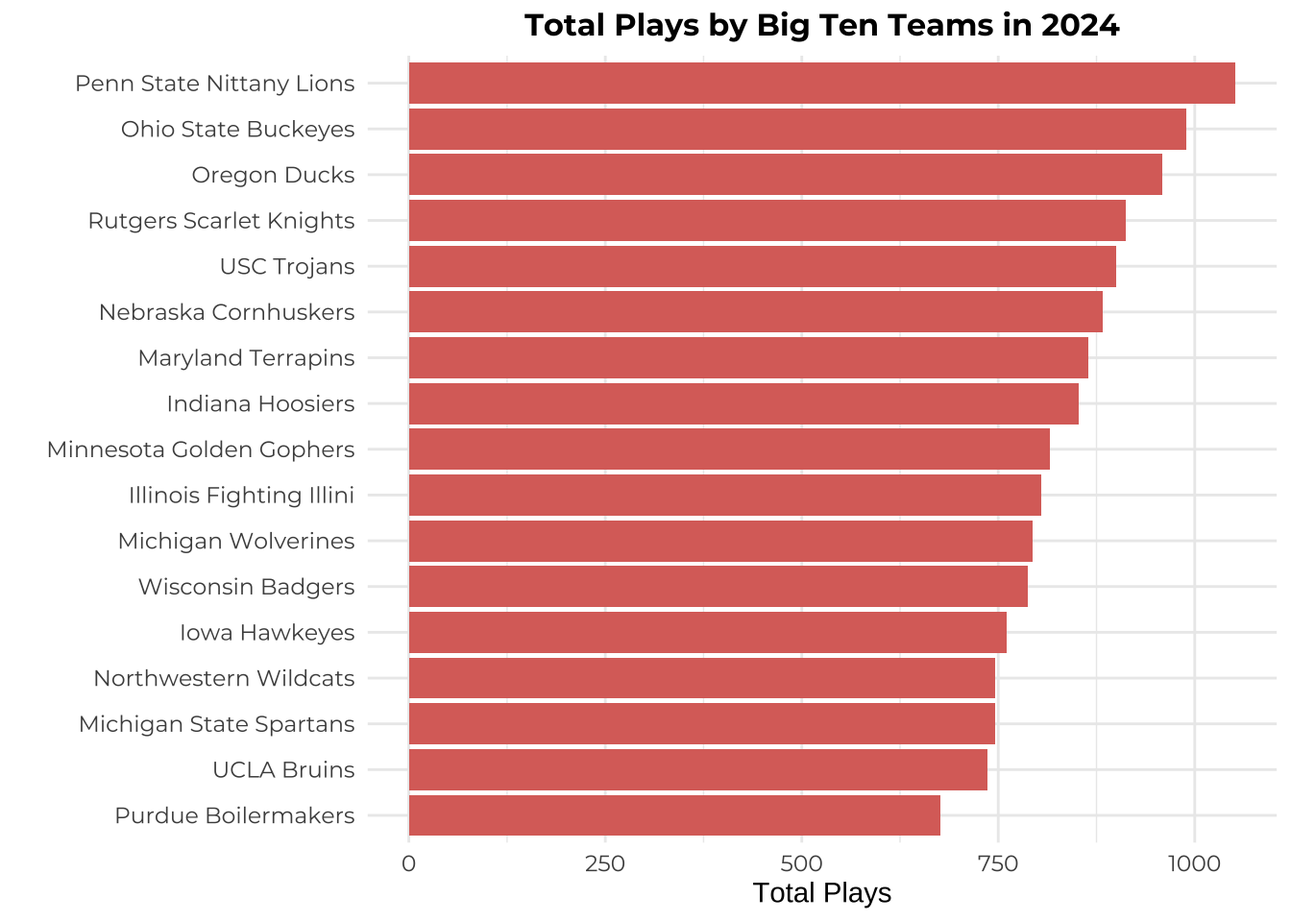
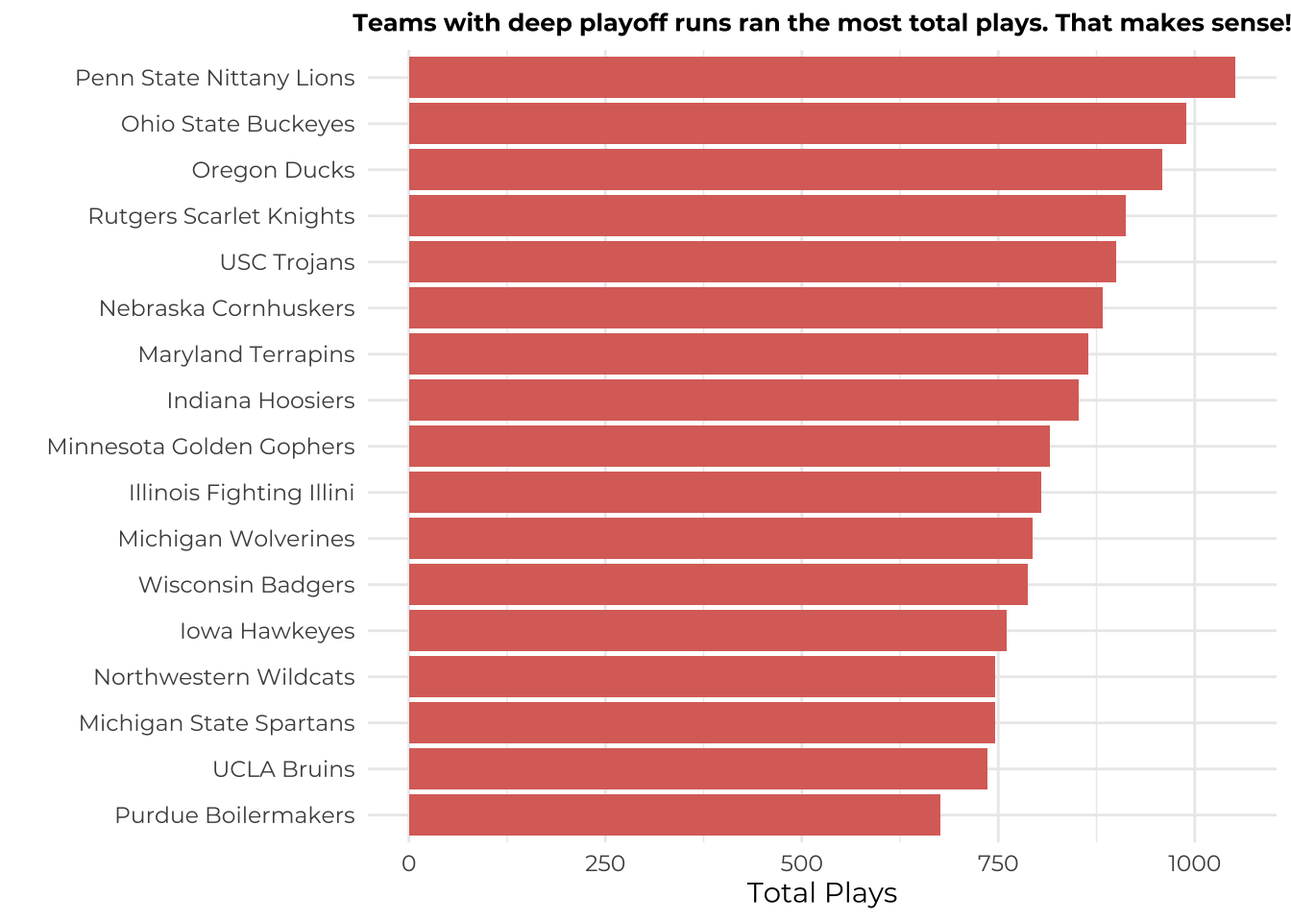
updates

diff --git a/docs/posts/b1g_plays/index.html b/docs/posts/b1g_plays/index.html
@@ -185,6 +185,10 @@ pre > code.sourceCode > span > a:first-child::before { text-decoration: underlin
 
 
 
+<p>Few other sports have quite the differences in style of play of college football. Different regions of the country sprouted different blue prints of offense. The sport is often defined by wacky, high-speed spread offenses or teams that seem not be aware the forward pass exists (talking about you Iowa!).</p>
+<p>Here, we’re going to look at one very specific (or well, not so specific these days) region of college football: The Big Ten.</p>
+<p>These days, with the league stretching from coast to coast, there are many different stylistic and strategic choices made in building an offense. No longer is the Big Ten just a grind-it-out, physical, running league. Well, okay not Iowa again, but point stands.</p>
+<p>Because there are so many styles and speeds of offense, does it matter how many plays you run in a game? Does running a lot of plays mean you are a good team? Let’s use the data to find out.</p>
 <div class="cell">
 <details class="code-fold">
 <summary>Code</summary>
@@ -351,6 +355,8 @@ date  (1): Date
 17 Purdue Boilermakers                1021         62.7</code></pre>
 </div>
 </div>
+<p>We’re going to look at this in a few time frames. First, we’ll look at the 2024 season alone, then 2025 (so far) alone and then lastly, a combined chart.</p>
+<p>We’ll have to look at this two ways each year. First total plays for the season and then try to standardize it for average per game since not every team played the same number of games.</p>
 <div class="cell">
 <details class="code-fold">
 <summary>Code</summary>
@@ -358,12 +364,13 @@ date  (1): Date
 <span id="cb16-2"><a href="#cb16-2" aria-hidden="true" tabindex="-1"></a>  <span class="fu">ggplot</span>(<span class="fu">aes</span>(<span class="at">x =</span> <span class="fu">reorder</span>(TeamFull, totalplays), <span class="at">y =</span> totalplays, <span class="at">fill =</span> TeamFull)) <span class="sc">+</span></span>
 <span id="cb16-3"><a href="#cb16-3" aria-hidden="true" tabindex="-1"></a>  <span class="fu">coord_flip</span>() <span class="sc">+</span></span>
 <span id="cb16-4"><a href="#cb16-4" aria-hidden="true" tabindex="-1"></a>  <span class="fu">geom_col</span>(<span class="at">fill =</span> <span class="st">"#db7069"</span>) <span class="sc">+</span></span>
-<span id="cb16-5"><a href="#cb16-5" aria-hidden="true" tabindex="-1"></a>  <span class="fu">labs</span>(<span class="at">title =</span> <span class="st">"Total Plays by Big Ten Teams in 2024"</span>,</span>
+<span id="cb16-5"><a href="#cb16-5" aria-hidden="true" tabindex="-1"></a>  <span class="fu">labs</span>(<span class="at">title =</span> <span class="st">"Teams with deep playoff runs ran the most total plays. That makes sense!"</span>,</span>
 <span id="cb16-6"><a href="#cb16-6" aria-hidden="true" tabindex="-1"></a>       <span class="at">x =</span> <span class="st">""</span>,</span>
 <span id="cb16-7"><a href="#cb16-7" aria-hidden="true" tabindex="-1"></a>       <span class="at">y =</span> <span class="st">"Total Plays"</span>) <span class="sc">+</span></span>
 <span id="cb16-8"><a href="#cb16-8" aria-hidden="true" tabindex="-1"></a>  <span class="fu">theme_minimal</span>() <span class="sc">+</span></span>
-<span id="cb16-9"><a href="#cb16-9" aria-hidden="true" tabindex="-1"></a>  <span class="fu">theme</span>(<span class="at">plot.title =</span> <span class="fu">element_text</span>(<span class="at">size =</span> <span class="dv">12</span>, <span class="at">face =</span> <span class="st">"bold"</span>, <span class="at">hjust =</span> <span class="fl">0.5</span>, <span class="at">family =</span> <span class="st">"montserrat"</span>),</span>
-<span id="cb16-10"><a href="#cb16-10" aria-hidden="true" tabindex="-1"></a>        <span class="at">axis.text =</span> <span class="fu">element_text</span>(<span class="at">family =</span> <span class="st">"montserrat"</span>))</span></code><button title="Copy to Clipboard" class="code-copy-button"><i class="bi"></i></button></pre></div>
+<span id="cb16-9"><a href="#cb16-9" aria-hidden="true" tabindex="-1"></a>  <span class="fu">theme</span>(<span class="at">plot.title =</span> <span class="fu">element_text</span>(<span class="at">size =</span> <span class="fl">9.5</span>, <span class="at">face =</span> <span class="st">"bold"</span>, <span class="at">hjust =</span> <span class="fl">0.5</span>, <span class="at">family =</span> <span class="st">"montserrat"</span>),</span>
+<span id="cb16-10"><a href="#cb16-10" aria-hidden="true" tabindex="-1"></a>        <span class="at">axis.text =</span> <span class="fu">element_text</span>(<span class="at">family =</span> <span class="st">"montserrat"</span>),</span>
+<span id="cb16-11"><a href="#cb16-11" aria-hidden="true" tabindex="-1"></a>        <span class="at">axis.title =</span> <span class="fu">element_text</span>(<span class="at">family =</span> <span class="st">"montserrat"</span>))</span></code><button title="Copy to Clipboard" class="code-copy-button"><i class="bi"></i></button></pre></div>
 </details>
 <div class="cell-output-display">
 <div>
@@ -372,7 +379,173 @@ date  (1): Date
 </figure>
 </div>
 </div>
+<details class="code-fold">
+<summary>Code</summary>
+<div class="sourceCode cell-code" id="cb17"><pre class="sourceCode r code-with-copy"><code class="sourceCode r"><span id="cb17-1"><a href="#cb17-1" aria-hidden="true" tabindex="-1"></a>b1g2024plays <span class="sc">|&gt;</span> </span>
+<span id="cb17-2"><a href="#cb17-2" aria-hidden="true" tabindex="-1"></a>  <span class="fu">ggplot</span>(<span class="fu">aes</span>(<span class="at">x =</span> <span class="fu">reorder</span>(TeamFull, avgplays), <span class="at">y =</span> avgplays, <span class="at">fill =</span> TeamFull)) <span class="sc">+</span></span>
+<span id="cb17-3"><a href="#cb17-3" aria-hidden="true" tabindex="-1"></a>  <span class="fu">coord_flip</span>() <span class="sc">+</span></span>
+<span id="cb17-4"><a href="#cb17-4" aria-hidden="true" tabindex="-1"></a>  <span class="fu">geom_col</span>(<span class="at">fill =</span> <span class="st">"#db7069"</span>) <span class="sc">+</span></span>
+<span id="cb17-5"><a href="#cb17-5" aria-hidden="true" tabindex="-1"></a>  <span class="fu">labs</span>(<span class="at">title =</span> <span class="st">"But running a lot of plays doesn't equal team success"</span>,</span>
+<span id="cb17-6"><a href="#cb17-6" aria-hidden="true" tabindex="-1"></a>       <span class="at">x =</span> <span class="st">""</span>,</span>
+<span id="cb17-7"><a href="#cb17-7" aria-hidden="true" tabindex="-1"></a>       <span class="at">y =</span> <span class="st">"Plays per game"</span>) <span class="sc">+</span></span>
+<span id="cb17-8"><a href="#cb17-8" aria-hidden="true" tabindex="-1"></a>  <span class="fu">theme_minimal</span>() <span class="sc">+</span></span>
+<span id="cb17-9"><a href="#cb17-9" aria-hidden="true" tabindex="-1"></a>  <span class="fu">theme</span>(<span class="at">plot.title =</span> <span class="fu">element_text</span>(<span class="at">size =</span> <span class="dv">12</span>, <span class="at">face =</span> <span class="st">"bold"</span>, <span class="at">hjust =</span> <span class="fl">0.5</span>, <span class="at">family =</span> <span class="st">"montserrat"</span>),</span>
+<span id="cb17-10"><a href="#cb17-10" aria-hidden="true" tabindex="-1"></a>        <span class="at">axis.text =</span> <span class="fu">element_text</span>(<span class="at">family =</span> <span class="st">"montserrat"</span>), </span>
+<span id="cb17-11"><a href="#cb17-11" aria-hidden="true" tabindex="-1"></a>        <span class="at">axis.title =</span> <span class="fu">element_text</span>(<span class="at">family =</span> <span class="st">"montserrat"</span>))</span></code><button title="Copy to Clipboard" class="code-copy-button"><i class="bi"></i></button></pre></div>
+</details>
+<div class="cell-output-display">
+<div>
+<figure class="figure">
+<p><img src="index_files/figure-html/unnamed-chunk-3-2.png" class="img-fluid figure-img" width="672"></p>
+</figure>
 </div>
+</div>
+</div>
+<p>It shouldn’t come as much of a surprise to see Ohio State, Penn State and Oregon at the top of the total plays list. Those three played the most games. Ohio State won the national championship. Penn State made the national semifinals. Oregon played in the Big Ten title game and the Rose Bowl. So that doesn’t mean much.</p>
+<p>What’s more interesting? Rutgers is the next team up after those three. Rutgers did play in a bowl game last year, but went just 7-6. The averages will tell us a better story.</p>
+<p>When we look at what teams averaged the most plays, it’s a lot of mediocre teams at the top of the chart. Rutgers, Maryland and USC had the top three most plays per game. Those three teams combined to go 18-20 in 2024. Maryland won just won Big Ten game — against USC, ironically. So running a lot of plays didn’t necessarily mean a team was winning a lot of games based on 2024 data. The teams that were more successful (we’ll use the Big Ten teams that made the Playoff for the sake of this: Ohio State, Penn State, Oregon, Indiana) are scattered throughout this list. Ohio State had the fifth fewest plays of all Big Ten teams, and won the national championship.</p>
+<p>What we see here is that it’s not about the quantity of plays, but about executing each team’s respective style of play.</p>
+<p>Does that change in 2025?</p>
+<div class="cell">
+<details class="code-fold">
+<summary>Code</summary>
+<div class="sourceCode cell-code" id="cb18"><pre class="sourceCode r code-with-copy"><code class="sourceCode r"><span id="cb18-1"><a href="#cb18-1" aria-hidden="true" tabindex="-1"></a>b1g2025plays <span class="sc">|&gt;</span> </span>
+<span id="cb18-2"><a href="#cb18-2" aria-hidden="true" tabindex="-1"></a>  <span class="fu">ggplot</span>(<span class="fu">aes</span>(<span class="at">x =</span> <span class="fu">reorder</span>(TeamFull, totalplays), <span class="at">y =</span> totalplays, <span class="at">fill =</span> TeamFull)) <span class="sc">+</span></span>
+<span id="cb18-3"><a href="#cb18-3" aria-hidden="true" tabindex="-1"></a>  <span class="fu">coord_flip</span>() <span class="sc">+</span></span>
+<span id="cb18-4"><a href="#cb18-4" aria-hidden="true" tabindex="-1"></a>  <span class="fu">geom_col</span>(<span class="at">fill =</span> <span class="st">"#db7069"</span>) <span class="sc">+</span></span>
+<span id="cb18-5"><a href="#cb18-5" aria-hidden="true" tabindex="-1"></a>  <span class="fu">labs</span>(<span class="at">title =</span> <span class="st">"Total Plays by Big Ten Teams in 2025"</span>,</span>
+<span id="cb18-6"><a href="#cb18-6" aria-hidden="true" tabindex="-1"></a>       <span class="at">x =</span> <span class="st">""</span>,</span>
+<span id="cb18-7"><a href="#cb18-7" aria-hidden="true" tabindex="-1"></a>       <span class="at">y =</span> <span class="st">"Total Plays"</span>) <span class="sc">+</span></span>
+<span id="cb18-8"><a href="#cb18-8" aria-hidden="true" tabindex="-1"></a>  <span class="fu">theme_minimal</span>() <span class="sc">+</span></span>
+<span id="cb18-9"><a href="#cb18-9" aria-hidden="true" tabindex="-1"></a>  <span class="fu">theme</span>(<span class="at">plot.title =</span> <span class="fu">element_text</span>(<span class="at">size =</span> <span class="dv">12</span>, <span class="at">face =</span> <span class="st">"bold"</span>, <span class="at">hjust =</span> <span class="fl">0.5</span>, <span class="at">family =</span> <span class="st">"montserrat"</span>),</span>
+<span id="cb18-10"><a href="#cb18-10" aria-hidden="true" tabindex="-1"></a>        <span class="at">axis.text =</span> <span class="fu">element_text</span>(<span class="at">family =</span> <span class="st">"montserrat"</span>), </span>
+<span id="cb18-11"><a href="#cb18-11" aria-hidden="true" tabindex="-1"></a>        <span class="at">axis.title =</span> <span class="fu">element_text</span>(<span class="at">family =</span> <span class="st">"montserrat"</span>))</span></code><button title="Copy to Clipboard" class="code-copy-button"><i class="bi"></i></button></pre></div>
+</details>
+<div class="cell-output-display">
+<div>
+<figure class="figure">
+<p><img src="index_files/figure-html/unnamed-chunk-4-1.png" class="img-fluid figure-img" width="672"></p>
+</figure>
+</div>
+</div>
+<details class="code-fold">
+<summary>Code</summary>
+<div class="sourceCode cell-code" id="cb19"><pre class="sourceCode r code-with-copy"><code class="sourceCode r"><span id="cb19-1"><a href="#cb19-1" aria-hidden="true" tabindex="-1"></a>b1g2025plays <span class="sc">|&gt;</span> </span>
+<span id="cb19-2"><a href="#cb19-2" aria-hidden="true" tabindex="-1"></a>  <span class="fu">ggplot</span>(<span class="fu">aes</span>(<span class="at">x =</span> <span class="fu">reorder</span>(TeamFull, avgplays), <span class="at">y =</span> avgplays, <span class="at">fill =</span> TeamFull)) <span class="sc">+</span></span>
+<span id="cb19-3"><a href="#cb19-3" aria-hidden="true" tabindex="-1"></a>  <span class="fu">coord_flip</span>() <span class="sc">+</span></span>
+<span id="cb19-4"><a href="#cb19-4" aria-hidden="true" tabindex="-1"></a>  <span class="fu">geom_col</span>(<span class="at">fill =</span> <span class="st">"#db7069"</span>) <span class="sc">+</span></span>
+<span id="cb19-5"><a href="#cb19-5" aria-hidden="true" tabindex="-1"></a>  <span class="fu">labs</span>(<span class="at">title =</span> <span class="st">"Ohio State runs the fewest plays per game, and is the nation's best team"</span>,</span>
+<span id="cb19-6"><a href="#cb19-6" aria-hidden="true" tabindex="-1"></a>       <span class="at">x =</span> <span class="st">""</span>,</span>
+<span id="cb19-7"><a href="#cb19-7" aria-hidden="true" tabindex="-1"></a>       <span class="at">y =</span> <span class="st">"Plays per game"</span>) <span class="sc">+</span></span>
+<span id="cb19-8"><a href="#cb19-8" aria-hidden="true" tabindex="-1"></a>  <span class="fu">theme_minimal</span>() <span class="sc">+</span></span>
+<span id="cb19-9"><a href="#cb19-9" aria-hidden="true" tabindex="-1"></a>  <span class="fu">theme</span>(<span class="at">plot.title =</span> <span class="fu">element_text</span>(<span class="at">size =</span> <span class="dv">12</span>, <span class="at">face =</span> <span class="st">"bold"</span>, <span class="at">hjust =</span> <span class="fl">0.5</span>, <span class="at">family =</span> <span class="st">"montserrat"</span>),</span>
+<span id="cb19-10"><a href="#cb19-10" aria-hidden="true" tabindex="-1"></a>        <span class="at">axis.text =</span> <span class="fu">element_text</span>(<span class="at">family =</span> <span class="st">"montserrat"</span>),</span>
+<span id="cb19-11"><a href="#cb19-11" aria-hidden="true" tabindex="-1"></a>        <span class="at">axis.title =</span> <span class="fu">element_text</span>(<span class="at">family =</span> <span class="st">"montserrat"</span>))</span></code><button title="Copy to Clipboard" class="code-copy-button"><i class="bi"></i></button></pre></div>
+</details>
+<div class="cell-output-display">
+<div>
+<figure class="figure">
+<p><img src="index_files/figure-html/unnamed-chunk-4-2.png" class="img-fluid figure-img" width="672"></p>
+</figure>
+</div>
+</div>
+</div>
+<p>The total sum of plays is going to hold a bit more weight here because the season is ongoing in 2025 and teams have generally played the same number of games to this ponit in mid-October. Here, we see a mix of good and not so good teams here. Again, emphasizing our understanding that a quantity of plays doesn’t say much about a team other than just how it likes to play. Same thing goes for the average plays per game chart.</p>
+<p>In both total plays and per game average, Ohio State is last in the Big Ten. Ohio State is also undefeated and the No.&nbsp;1 team in the country. Seems like being slow isn’t slowing them down.</p>
+<p>Which teams made the biggest changes from 2024 to 2025? Let’s visualize that.</p>
+<div class="cell">
+<details class="code-fold">
+<summary>Code</summary>
+<div class="sourceCode cell-code" id="cb20"><pre class="sourceCode r code-with-copy"><code class="sourceCode r"><span id="cb20-1"><a href="#cb20-1" aria-hidden="true" tabindex="-1"></a>combinedplays_long <span class="ot">&lt;-</span> combinedplays <span class="sc">|&gt;</span></span>
+<span id="cb20-2"><a href="#cb20-2" aria-hidden="true" tabindex="-1"></a>  <span class="fu">select</span>(TeamFull, totalplays2024, totalplays2025) <span class="sc">|&gt;</span></span>
+<span id="cb20-3"><a href="#cb20-3" aria-hidden="true" tabindex="-1"></a>  <span class="fu">pivot_longer</span>(</span>
+<span id="cb20-4"><a href="#cb20-4" aria-hidden="true" tabindex="-1"></a>    <span class="at">cols =</span> <span class="fu">starts_with</span>(<span class="st">"totalplays"</span>),</span>
+<span id="cb20-5"><a href="#cb20-5" aria-hidden="true" tabindex="-1"></a>    <span class="at">names_to =</span> <span class="st">"Year"</span>,</span>
+<span id="cb20-6"><a href="#cb20-6" aria-hidden="true" tabindex="-1"></a>    <span class="at">values_to =</span> <span class="st">"TotalPlays"</span></span>
+<span id="cb20-7"><a href="#cb20-7" aria-hidden="true" tabindex="-1"></a>  ) <span class="sc">|&gt;</span></span>
+<span id="cb20-8"><a href="#cb20-8" aria-hidden="true" tabindex="-1"></a>  <span class="fu">mutate</span>(</span>
+<span id="cb20-9"><a href="#cb20-9" aria-hidden="true" tabindex="-1"></a>    <span class="at">Year =</span> <span class="fu">recode</span>(Year,</span>
+<span id="cb20-10"><a href="#cb20-10" aria-hidden="true" tabindex="-1"></a>                  <span class="st">"totalplays2024"</span> <span class="ot">=</span> <span class="st">"2024"</span>,</span>
+<span id="cb20-11"><a href="#cb20-11" aria-hidden="true" tabindex="-1"></a>                  <span class="st">"totalplays2025"</span> <span class="ot">=</span> <span class="st">"2025"</span>))</span>
+<span id="cb20-12"><a href="#cb20-12" aria-hidden="true" tabindex="-1"></a></span>
+<span id="cb20-13"><a href="#cb20-13" aria-hidden="true" tabindex="-1"></a><span class="fu">ggplot</span>(combinedplays_long, <span class="fu">aes</span>(<span class="at">x =</span> <span class="fu">reorder</span>(TeamFull, TotalPlays), <span class="at">y =</span> TotalPlays, <span class="at">fill =</span> Year)) <span class="sc">+</span></span>
+<span id="cb20-14"><a href="#cb20-14" aria-hidden="true" tabindex="-1"></a>  <span class="fu">coord_flip</span>() <span class="sc">+</span></span>
+<span id="cb20-15"><a href="#cb20-15" aria-hidden="true" tabindex="-1"></a>  <span class="fu">geom_col</span>(<span class="at">position =</span> <span class="st">"stack"</span>) <span class="sc">+</span></span>
+<span id="cb20-16"><a href="#cb20-16" aria-hidden="true" tabindex="-1"></a>  <span class="fu">labs</span>(</span>
+<span id="cb20-17"><a href="#cb20-17" aria-hidden="true" tabindex="-1"></a>    <span class="at">title =</span> <span class="st">"Big Ten Team Total Plays: 2024 vs 2025"</span>,</span>
+<span id="cb20-18"><a href="#cb20-18" aria-hidden="true" tabindex="-1"></a>    <span class="at">x =</span> <span class="st">""</span>,</span>
+<span id="cb20-19"><a href="#cb20-19" aria-hidden="true" tabindex="-1"></a>    <span class="at">y =</span> <span class="st">"Total Plays"</span>,</span>
+<span id="cb20-20"><a href="#cb20-20" aria-hidden="true" tabindex="-1"></a>    <span class="at">fill =</span> <span class="st">"Season"</span></span>
+<span id="cb20-21"><a href="#cb20-21" aria-hidden="true" tabindex="-1"></a>  ) <span class="sc">+</span></span>
+<span id="cb20-22"><a href="#cb20-22" aria-hidden="true" tabindex="-1"></a>  <span class="fu">theme_minimal</span>() <span class="sc">+</span></span>
+<span id="cb20-23"><a href="#cb20-23" aria-hidden="true" tabindex="-1"></a>  <span class="fu">theme</span>(</span>
+<span id="cb20-24"><a href="#cb20-24" aria-hidden="true" tabindex="-1"></a>   <span class="at">plot.title =</span> <span class="fu">element_text</span>(<span class="at">size =</span> <span class="dv">12</span>, <span class="at">face =</span> <span class="st">"bold"</span>, <span class="at">family =</span> <span class="st">"montserrat"</span>),</span>
+<span id="cb20-25"><a href="#cb20-25" aria-hidden="true" tabindex="-1"></a>   <span class="at">axis.text =</span> <span class="fu">element_text</span>(<span class="at">family =</span> <span class="st">"montserrat"</span>), </span>
+<span id="cb20-26"><a href="#cb20-26" aria-hidden="true" tabindex="-1"></a>   <span class="at">axis.title =</span> <span class="fu">element_text</span>(<span class="at">family =</span> <span class="st">"montserrat"</span>)) <span class="sc">+</span></span>
+<span id="cb20-27"><a href="#cb20-27" aria-hidden="true" tabindex="-1"></a>   <span class="fu">scale_fill_manual</span>(<span class="at">values =</span> <span class="fu">c</span>(</span>
+<span id="cb20-28"><a href="#cb20-28" aria-hidden="true" tabindex="-1"></a>    <span class="st">"2024"</span> <span class="ot">=</span> <span class="st">"#db7069"</span>,  </span>
+<span id="cb20-29"><a href="#cb20-29" aria-hidden="true" tabindex="-1"></a>    <span class="st">"2025"</span> <span class="ot">=</span> <span class="st">"#2b6cb0"</span>  </span>
+<span id="cb20-30"><a href="#cb20-30" aria-hidden="true" tabindex="-1"></a>  ))</span></code><button title="Copy to Clipboard" class="code-copy-button"><i class="bi"></i></button></pre></div>
+</details>
+<div class="cell-output-display">
+<div>
+<figure class="figure">
+<p><img src="index_files/figure-html/unnamed-chunk-5-1.png" class="img-fluid figure-img" width="672"></p>
+</figure>
+</div>
+</div>
+<details class="code-fold">
+<summary>Code</summary>
+<div class="sourceCode cell-code" id="cb21"><pre class="sourceCode r code-with-copy"><code class="sourceCode r"><span id="cb21-1"><a href="#cb21-1" aria-hidden="true" tabindex="-1"></a>combinedplays <span class="sc">|&gt;</span></span>
+<span id="cb21-2"><a href="#cb21-2" aria-hidden="true" tabindex="-1"></a>  <span class="fu">group_by</span>(TeamFull) <span class="sc">|&gt;</span> </span>
+<span id="cb21-3"><a href="#cb21-3" aria-hidden="true" tabindex="-1"></a>  <span class="fu">summarize</span>(<span class="at">pct_change =</span> ((avgplays2025 <span class="sc">-</span> avgplays2024) <span class="sc">/</span> avgplays2024) <span class="sc">*</span> <span class="dv">100</span>) <span class="sc">|&gt;</span> </span>
+<span id="cb21-4"><a href="#cb21-4" aria-hidden="true" tabindex="-1"></a>  <span class="fu">arrange</span>(<span class="fu">desc</span>(pct_change)) <span class="sc">|&gt;</span> </span>
+<span id="cb21-5"><a href="#cb21-5" aria-hidden="true" tabindex="-1"></a>  <span class="fu">ggplot</span>(<span class="fu">aes</span>(<span class="at">x =</span> <span class="fu">reorder</span>(TeamFull, pct_change), <span class="at">y =</span> pct_change, <span class="at">fill =</span> TeamFull)) <span class="sc">+</span></span>
+<span id="cb21-6"><a href="#cb21-6" aria-hidden="true" tabindex="-1"></a>  <span class="fu">coord_flip</span>() <span class="sc">+</span></span>
+<span id="cb21-7"><a href="#cb21-7" aria-hidden="true" tabindex="-1"></a>  <span class="fu">geom_col</span>() <span class="sc">+</span></span>
+<span id="cb21-8"><a href="#cb21-8" aria-hidden="true" tabindex="-1"></a>  <span class="fu">labs</span>(<span class="at">title =</span> <span class="st">"With a new coach, Purdue had the biggest jump in average plays per game this year."</span>,</span>
+<span id="cb21-9"><a href="#cb21-9" aria-hidden="true" tabindex="-1"></a>       <span class="at">x =</span> <span class="st">""</span>,</span>
+<span id="cb21-10"><a href="#cb21-10" aria-hidden="true" tabindex="-1"></a>       <span class="at">y =</span> <span class="st">"Percent Change in Plays per Game"</span>) <span class="sc">+</span></span>
+<span id="cb21-11"><a href="#cb21-11" aria-hidden="true" tabindex="-1"></a>  <span class="fu">theme_minimal</span>() <span class="sc">+</span></span>
+<span id="cb21-12"><a href="#cb21-12" aria-hidden="true" tabindex="-1"></a>  <span class="fu">theme</span>(</span>
+<span id="cb21-13"><a href="#cb21-13" aria-hidden="true" tabindex="-1"></a>    <span class="at">plot.title =</span> <span class="fu">element_text</span>(<span class="at">size =</span> <span class="dv">9</span>, <span class="at">face =</span> <span class="st">"bold"</span>, <span class="at">family =</span> <span class="st">"montserrat"</span>),</span>
+<span id="cb21-14"><a href="#cb21-14" aria-hidden="true" tabindex="-1"></a>    <span class="at">axis.text =</span> <span class="fu">element_text</span>(<span class="at">family =</span> <span class="st">"montserrat"</span>), </span>
+<span id="cb21-15"><a href="#cb21-15" aria-hidden="true" tabindex="-1"></a>    <span class="at">axis.title =</span> <span class="fu">element_text</span>(<span class="at">family =</span> <span class="st">"montserrat"</span>), </span>
+<span id="cb21-16"><a href="#cb21-16" aria-hidden="true" tabindex="-1"></a>    <span class="at">legend.position =</span> <span class="st">"none"</span>) <span class="sc">+</span></span>
+<span id="cb21-17"><a href="#cb21-17" aria-hidden="true" tabindex="-1"></a>    <span class="fu">scale_fill_manual</span>(<span class="at">values =</span> <span class="fu">c</span>(</span>
+<span id="cb21-18"><a href="#cb21-18" aria-hidden="true" tabindex="-1"></a>    <span class="st">"Purdue Boilermakers"</span> <span class="ot">=</span> <span class="st">"#647D4BFF"</span>,  </span>
+<span id="cb21-19"><a href="#cb21-19" aria-hidden="true" tabindex="-1"></a>    <span class="st">"Iowa Hawkeyes"</span> <span class="ot">=</span> <span class="st">"#647D4BFF"</span>,</span>
+<span id="cb21-20"><a href="#cb21-20" aria-hidden="true" tabindex="-1"></a>    <span class="st">"Indiana Hoosiers"</span> <span class="ot">=</span> <span class="st">"#647D4BFF"</span>,</span>
+<span id="cb21-21"><a href="#cb21-21" aria-hidden="true" tabindex="-1"></a>    <span class="st">"Northwestern Wildcats"</span> <span class="ot">=</span> <span class="st">"#647D4BFF"</span>,</span>
+<span id="cb21-22"><a href="#cb21-22" aria-hidden="true" tabindex="-1"></a>    <span class="st">"Michigan Wolverines"</span> <span class="ot">=</span> <span class="st">"#647D4BFF"</span>,</span>
+<span id="cb21-23"><a href="#cb21-23" aria-hidden="true" tabindex="-1"></a>    <span class="st">"Rutgers Scarlet Knights"</span> <span class="ot">=</span> <span class="st">"#647D4BFF"</span>,</span>
+<span id="cb21-24"><a href="#cb21-24" aria-hidden="true" tabindex="-1"></a>    <span class="st">"Minnesota Golden Gophers"</span> <span class="ot">=</span> <span class="st">"#647D4BFF"</span>,</span>
+<span id="cb21-25"><a href="#cb21-25" aria-hidden="true" tabindex="-1"></a>    <span class="st">"Michigan State Spartans"</span> <span class="ot">=</span> <span class="st">"#647D4BFF"</span>,</span>
+<span id="cb21-26"><a href="#cb21-26" aria-hidden="true" tabindex="-1"></a>    <span class="st">"UCLA Bruins"</span> <span class="ot">=</span> <span class="st">"#647D4BFF"</span>,</span>
+<span id="cb21-27"><a href="#cb21-27" aria-hidden="true" tabindex="-1"></a>    <span class="st">"Nebraska Cornhuskers"</span> <span class="ot">=</span> <span class="st">"#647D4BFF"</span>, </span>
+<span id="cb21-28"><a href="#cb21-28" aria-hidden="true" tabindex="-1"></a>    <span class="st">"Oregon Ducks"</span> <span class="ot">=</span> <span class="st">"#db7069"</span>, </span>
+<span id="cb21-29"><a href="#cb21-29" aria-hidden="true" tabindex="-1"></a>    <span class="st">"Illinois Fighting Illini"</span> <span class="ot">=</span> <span class="st">"#db7069"</span>,</span>
+<span id="cb21-30"><a href="#cb21-30" aria-hidden="true" tabindex="-1"></a>    <span class="st">"Ohio State Buckeyes"</span> <span class="ot">=</span> <span class="st">"#db7069"</span>,</span>
+<span id="cb21-31"><a href="#cb21-31" aria-hidden="true" tabindex="-1"></a>    <span class="st">"Penn State Nittany Lions"</span> <span class="ot">=</span> <span class="st">"#db7069"</span>,</span>
+<span id="cb21-32"><a href="#cb21-32" aria-hidden="true" tabindex="-1"></a>    <span class="st">"Wisconsin Badgers"</span> <span class="ot">=</span> <span class="st">"#db7069"</span>,</span>
+<span id="cb21-33"><a href="#cb21-33" aria-hidden="true" tabindex="-1"></a>    <span class="st">"USC Trojans"</span> <span class="ot">=</span> <span class="st">"#db7069"</span>,</span>
+<span id="cb21-34"><a href="#cb21-34" aria-hidden="true" tabindex="-1"></a>    <span class="st">"Maryland Terrapins"</span> <span class="ot">=</span> <span class="st">"#db7069"</span></span>
+<span id="cb21-35"><a href="#cb21-35" aria-hidden="true" tabindex="-1"></a>  ))</span></code><button title="Copy to Clipboard" class="code-copy-button"><i class="bi"></i></button></pre></div>
+</details>
+<div class="cell-output-display">
+<div>
+<figure class="figure">
+<p><img src="index_files/figure-html/unnamed-chunk-5-2.png" class="img-fluid figure-img" width="672"></p>
+</figure>
+</div>
+</div>
+</div>
+<p>Purdue saw a jump of more than 20% in its average plays run per game from 2024 to 2025. What changed? A new a head coach. Purdue fired Ryan Walters after the 2024 season and hired Barry Odom. And while Purdue has at least outwardly appeared improved this year, notably hanging with Notre Dame for a bit, the Boilermakers are still just 2-4 and 0-3 in the Big Ten.</p>
+<p>The style changed, but the result hasn’t yet. Which gets at another factor the plays data can’t show us: Purdue and other teams at the bottom of the Big Ten just aren’t talented enough.</p>
+<p>It’s also worth noting that Iowa, IOWA!!!!, had the second largest increase in plays per game and yet……. they still aren’t good on offense! It’s at least a concerted effort to shift the narrative around what has been one of the nation’s most futile offenses, but the results have still been largely the same despite the higher speed of play.</p>
+<p>On the flip side, Maryland has seen the largest decrease in plays per game, and is improved over last season, approaching bowl eligibility.</p>
+<p>High tempo offenses are often described as better offesnes in the media because they tend to create more highlights and score a lot of points. But running a lot of plays is clearly not a strong metric of deciding if an offense is good.</p>
+<p>If you run 100 plays or three plays, what matters is that you score points. Scoring points wins football games. It doesn’t matter how you do it. A team’s efficiency and execution on offense within the sphere of their own scheme is a better determination of what makes a good team.</p>
 
 
 
